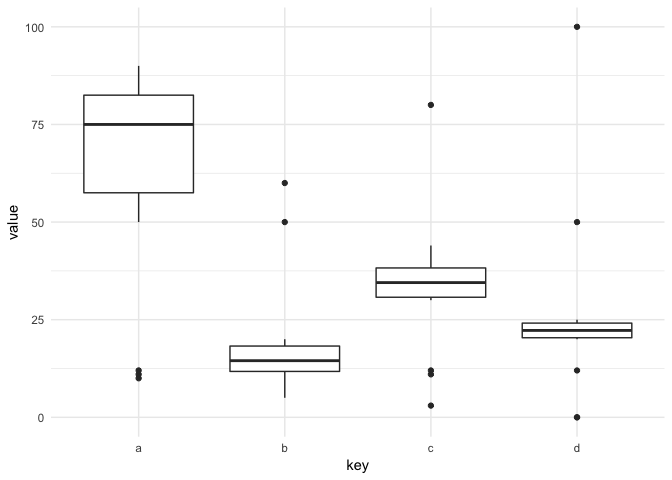
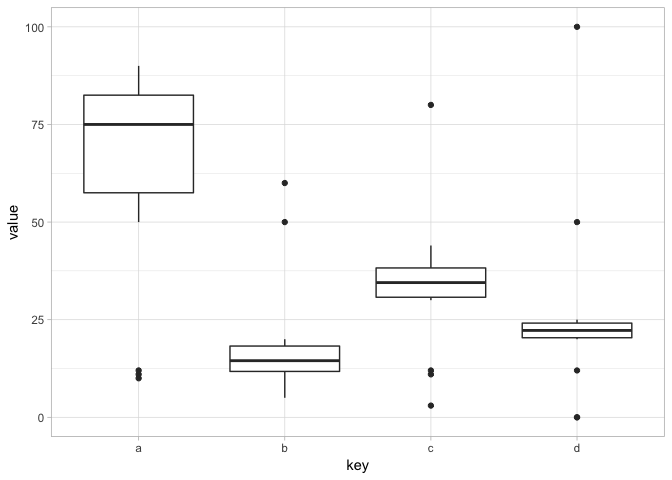
major update to README and minor update to plot_mod_results.Rd

diff --git a/README.md b/README.md
@@ -3,50 +3,187 @@
 MLtoolkit
 =========
 
-MLtoolkit is an R package with miscellaneous functions.
+MLtoolkit is an R package providing functions to help with machine learning tasks.
 
 Installation
 ------------
 
-You can install MLtoolkit from GitHub with:
+You can install MLtoolkit from GitHub using:
 
 ``` r
 # install.packages("devtools")
 devtools::install_github("AndrewKostandy/MLtoolkit")
 ```
 
-Example
--------
+Example: Comparing Model Performance
+------------------------------------
+
+### Binary Classification
+
+``` r
+library(MLtoolkit)
+library(recipes)
+library(mlbench)
+
+data(BreastCancer)
+dat <- BreastCancer %>%
+  select(-Id) %>%
+  modify_at(c(1:9), as.numeric)
+
+# Since caret requires the positive class (malignant) to be the first factor level in the outcome:
+dat <- mutate(dat, Class = fct_rev(Class))
+
+rec1 <- recipe(Class ~ Cl.thickness + Cell.size + Cell.shape, data = dat)
+
+rec2 <- recipe(Class ~ Marg.adhesion + Epith.c.size + Bare.nuclei, data = dat)
+
+rec3 <- recipe(Class ~ Bl.cromatin + Normal.nucleoli + Mitoses, data = dat)
+
+train_ctrl <- trainControl(method = "repeatedcv",
+                           number = 10,
+                           repeats = 4,
+                           classProbs = TRUE,
+                           savePredictions = "final")
+
+glm_fit_1 <- train(rec1, data = dat,
+                   method = "glm",
+                   trControl = train_ctrl)
+
+glm_fit_2 <- train(rec2, data = dat,
+                   method = "glm",
+                   trControl = train_ctrl)
+
+glm_fit_3 <- train(rec3, data = dat,
+                   method = "glm",
+                   trControl = train_ctrl)
+```
+
+The compute\_mod\_results() function works with a single caret model object and computes its performance results:
+
+``` r
+compute_mod_results(glm_fit_1, "GLM 1") %>% head()
+#> # A tibble: 6 x 14
+#>   Model Resample   ROC Sensitivity Specificity Precision Accuracy
+#>   <chr> <chr>    <dbl>       <dbl>       <dbl>     <dbl>    <dbl>
+#> 1 GLM 1 Fold01.… 0.981       0.958       0.957     0.92     0.957
+#> 2 GLM 1 Fold01.… 0.999       0.958       1         1        0.986
+#> 3 GLM 1 Fold01.… 0.984       0.917       0.978     0.957    0.957
+#> 4 GLM 1 Fold01.… 0.964       0.958       0.935     0.885    0.943
+#> 5 GLM 1 Fold02.… 0.967       0.8         0.978     0.952    0.914
+#> 6 GLM 1 Fold02.… 0.989       0.833       0.978     0.952    0.929
+#> # ... with 7 more variables: `Cohen's Kappa` <dbl>, `F1 Score` <dbl>,
+#> #   `Matthews Corr. Coeff.` <dbl>, Concordance <dbl>, Discordance <dbl>,
+#> #   `Somer's D` <dbl>, `KS Statistic` <dbl>
+```
+
+The all\_mod\_results() function works with multiple caret model objects and computes their model performance results:
+
+``` r
+mods_results <- all_mod_results(list(glm_fit_1, glm_fit_2, glm_fit_3), c("GLM 1", "GLM 2", "GLM 3"))
+mods_results %>% head()
+#> # A tibble: 6 x 14
+#>   Model Resample   ROC Sensitivity Specificity Precision Accuracy
+#>   <chr> <chr>    <dbl>       <dbl>       <dbl>     <dbl>    <dbl>
+#> 1 GLM 1 Fold01.… 0.981       0.958       0.957     0.92     0.957
+#> 2 GLM 1 Fold01.… 0.999       0.958       1         1        0.986
+#> 3 GLM 1 Fold01.… 0.984       0.917       0.978     0.957    0.957
+#> 4 GLM 1 Fold01.… 0.964       0.958       0.935     0.885    0.943
+#> 5 GLM 1 Fold02.… 0.967       0.8         0.978     0.952    0.914
+#> 6 GLM 1 Fold02.… 0.989       0.833       0.978     0.952    0.929
+#> # ... with 7 more variables: `Cohen's Kappa` <dbl>, `F1 Score` <dbl>,
+#> #   `Matthews Corr. Coeff.` <dbl>, Concordance <dbl>, Discordance <dbl>,
+#> #   `Somer's D` <dbl>, `KS Statistic` <dbl>
+```
+
+The plot\_mod\_results() function produces a box plot of the models performance results:
+
+``` r
+plot_mod_results(mods_results, plot_columns = 3)
+```
+
+<img src="man/figures/README-unnamed-chunk-5-1.png" width="100%" />
+
+The plot\_mod\_results() function can alternatively take a list of caret model objects and a list or vector of model names:
+
+``` r
+# plot_mod_results(list(glm_fit_1, glm_fit_2, glm_fit_3), c("GLM 1", "GLM 2", "GLM 3"))
+```
+
+### Regression
+
+``` r
+train_ctrl <- trainControl(method = "repeatedcv",
+                           number = 10,
+                           repeats = 4,
+                           savePredictions = "final")
+
+lm_fit_1 <- train(Sepal.Length ~ Sepal.Width, data = iris,
+                  method = "lm",
+                  trControl = train_ctrl)
+
+lm_fit_2 <- train(Sepal.Length ~ Sepal.Width + Petal.Length, data = iris,
+                  method = "lm",
+                  trControl = train_ctrl)
+
+lm_fit_3 <- train(Sepal.Length ~ Sepal.Width + Petal.Length + Petal.Width, data = iris,
+                  method = "lm",
+                  trControl = train_ctrl)
+```
+
+The compute\_mod\_results() function works with a single caret model object and computes its performance results:
+
+``` r
+compute_mod_results(lm_fit_1, "LM 1") %>% head()
+#> # A tibble: 6 x 6
+#>   Model Resample     RMSE       R2   MAE  MAPE
+#>   <chr> <chr>       <dbl>    <dbl> <dbl> <dbl>
+#> 1 LM 1  Fold01.Rep1 0.783 0.0564   0.637 10.9 
+#> 2 LM 1  Fold01.Rep2 0.968 0.262    0.845 14.3 
+#> 3 LM 1  Fold01.Rep3 0.688 0.000850 0.582  9.98
+#> 4 LM 1  Fold01.Rep4 0.677 0.0242   0.593 10.2 
+#> 5 LM 1  Fold02.Rep1 0.907 0.00114  0.774 13.0 
+#> 6 LM 1  Fold02.Rep2 0.796 0.0401   0.662 11.3
+```
+
+The all\_mod\_results() function works with multiple caret model objects and computes their model performance results:
+
+``` r
+mods_results <- all_mod_results(list(lm_fit_1, lm_fit_2, lm_fit_3), c("LM 1", "LM 2", "LM 3"))
+mods_results %>% head()
+#> # A tibble: 6 x 6
+#>   Model Resample     RMSE       R2   MAE  MAPE
+#>   <chr> <chr>       <dbl>    <dbl> <dbl> <dbl>
+#> 1 LM 1  Fold01.Rep1 0.783 0.0564   0.637 10.9 
+#> 2 LM 1  Fold01.Rep2 0.968 0.262    0.845 14.3 
+#> 3 LM 1  Fold01.Rep3 0.688 0.000850 0.582  9.98
+#> 4 LM 1  Fold01.Rep4 0.677 0.0242   0.593 10.2 
+#> 5 LM 1  Fold02.Rep1 0.907 0.00114  0.774 13.0 
+#> 6 LM 1  Fold02.Rep2 0.796 0.0401   0.662 11.3
+```
+
+The plot\_mod\_results() function produces a box plot of the models performance results:
+
+``` r
+plot_mod_results(mods_results)
+```
+
+<img src="man/figures/README-unnamed-chunk-10-1.png" width="100%" />
+
+The plot\_mod\_results() function can alternatively take a list of caret model objects and a list or vector of model names:
+
+``` r
+# plot_mod_results(list(lm_fit_1, lm_fit_2, lm_fit_3), c("LM 1", "LM 2", "LM 3"))
+```
+
+Data Truncation Example
+-----------------------
 
 This is a basic example which shows the truncate\_data() function in the package.
 
 Below is a dataframe with numeric columns including univariate outliers:
 
 ``` r
-library(MLtoolkit)
-#> Loading required package: mltools
-#> Loading required package: InformationValue
-#> Loading required package: tidyverse
-#> ── Attaching packages ────────────────────────────────── tidyverse 1.2.1 ──
-#> ✔ ggplot2 3.1.0     ✔ purrr   0.2.5
-#> ✔ tibble  1.4.2     ✔ dplyr   0.7.8
-#> ✔ tidyr   0.8.2     ✔ stringr 1.3.1
-#> ✔ readr   1.2.1     ✔ forcats 0.3.0
-#> ── Conflicts ───────────────────────────────────── tidyverse_conflicts() ──
-#> ✖ dplyr::filter()     masks stats::filter()
-#> ✖ dplyr::lag()        masks stats::lag()
-#> ✖ tidyr::replace_na() masks mltools::replace_na()
-#> Loading required package: caret
-#> Loading required package: lattice
-#> 
-#> Attaching package: 'caret'
-#> The following object is masked from 'package:purrr':
-#> 
-#>     lift
-#> The following objects are masked from 'package:InformationValue':
-#> 
-#>     confusionMatrix, precision, sensitivity, specificity
-theme_set(theme_minimal())
+theme_set(theme_light())
 
 mydata <- tibble(a=(c(10,11,12,seq(70,90,2),50,60)),
                  b=(c(5,11,12,seq(10,20,1),50,60)),
@@ -72,3 +209,5 @@ ggplot(gather(mydata2, key, value), aes(key, value)) + geom_boxplot()
 ```
 
 <img src="man/figures/README-example_continued-1.png" width="100%" />
+
+Note new data (eg. test data), can be truncated using the training data quartile values:
